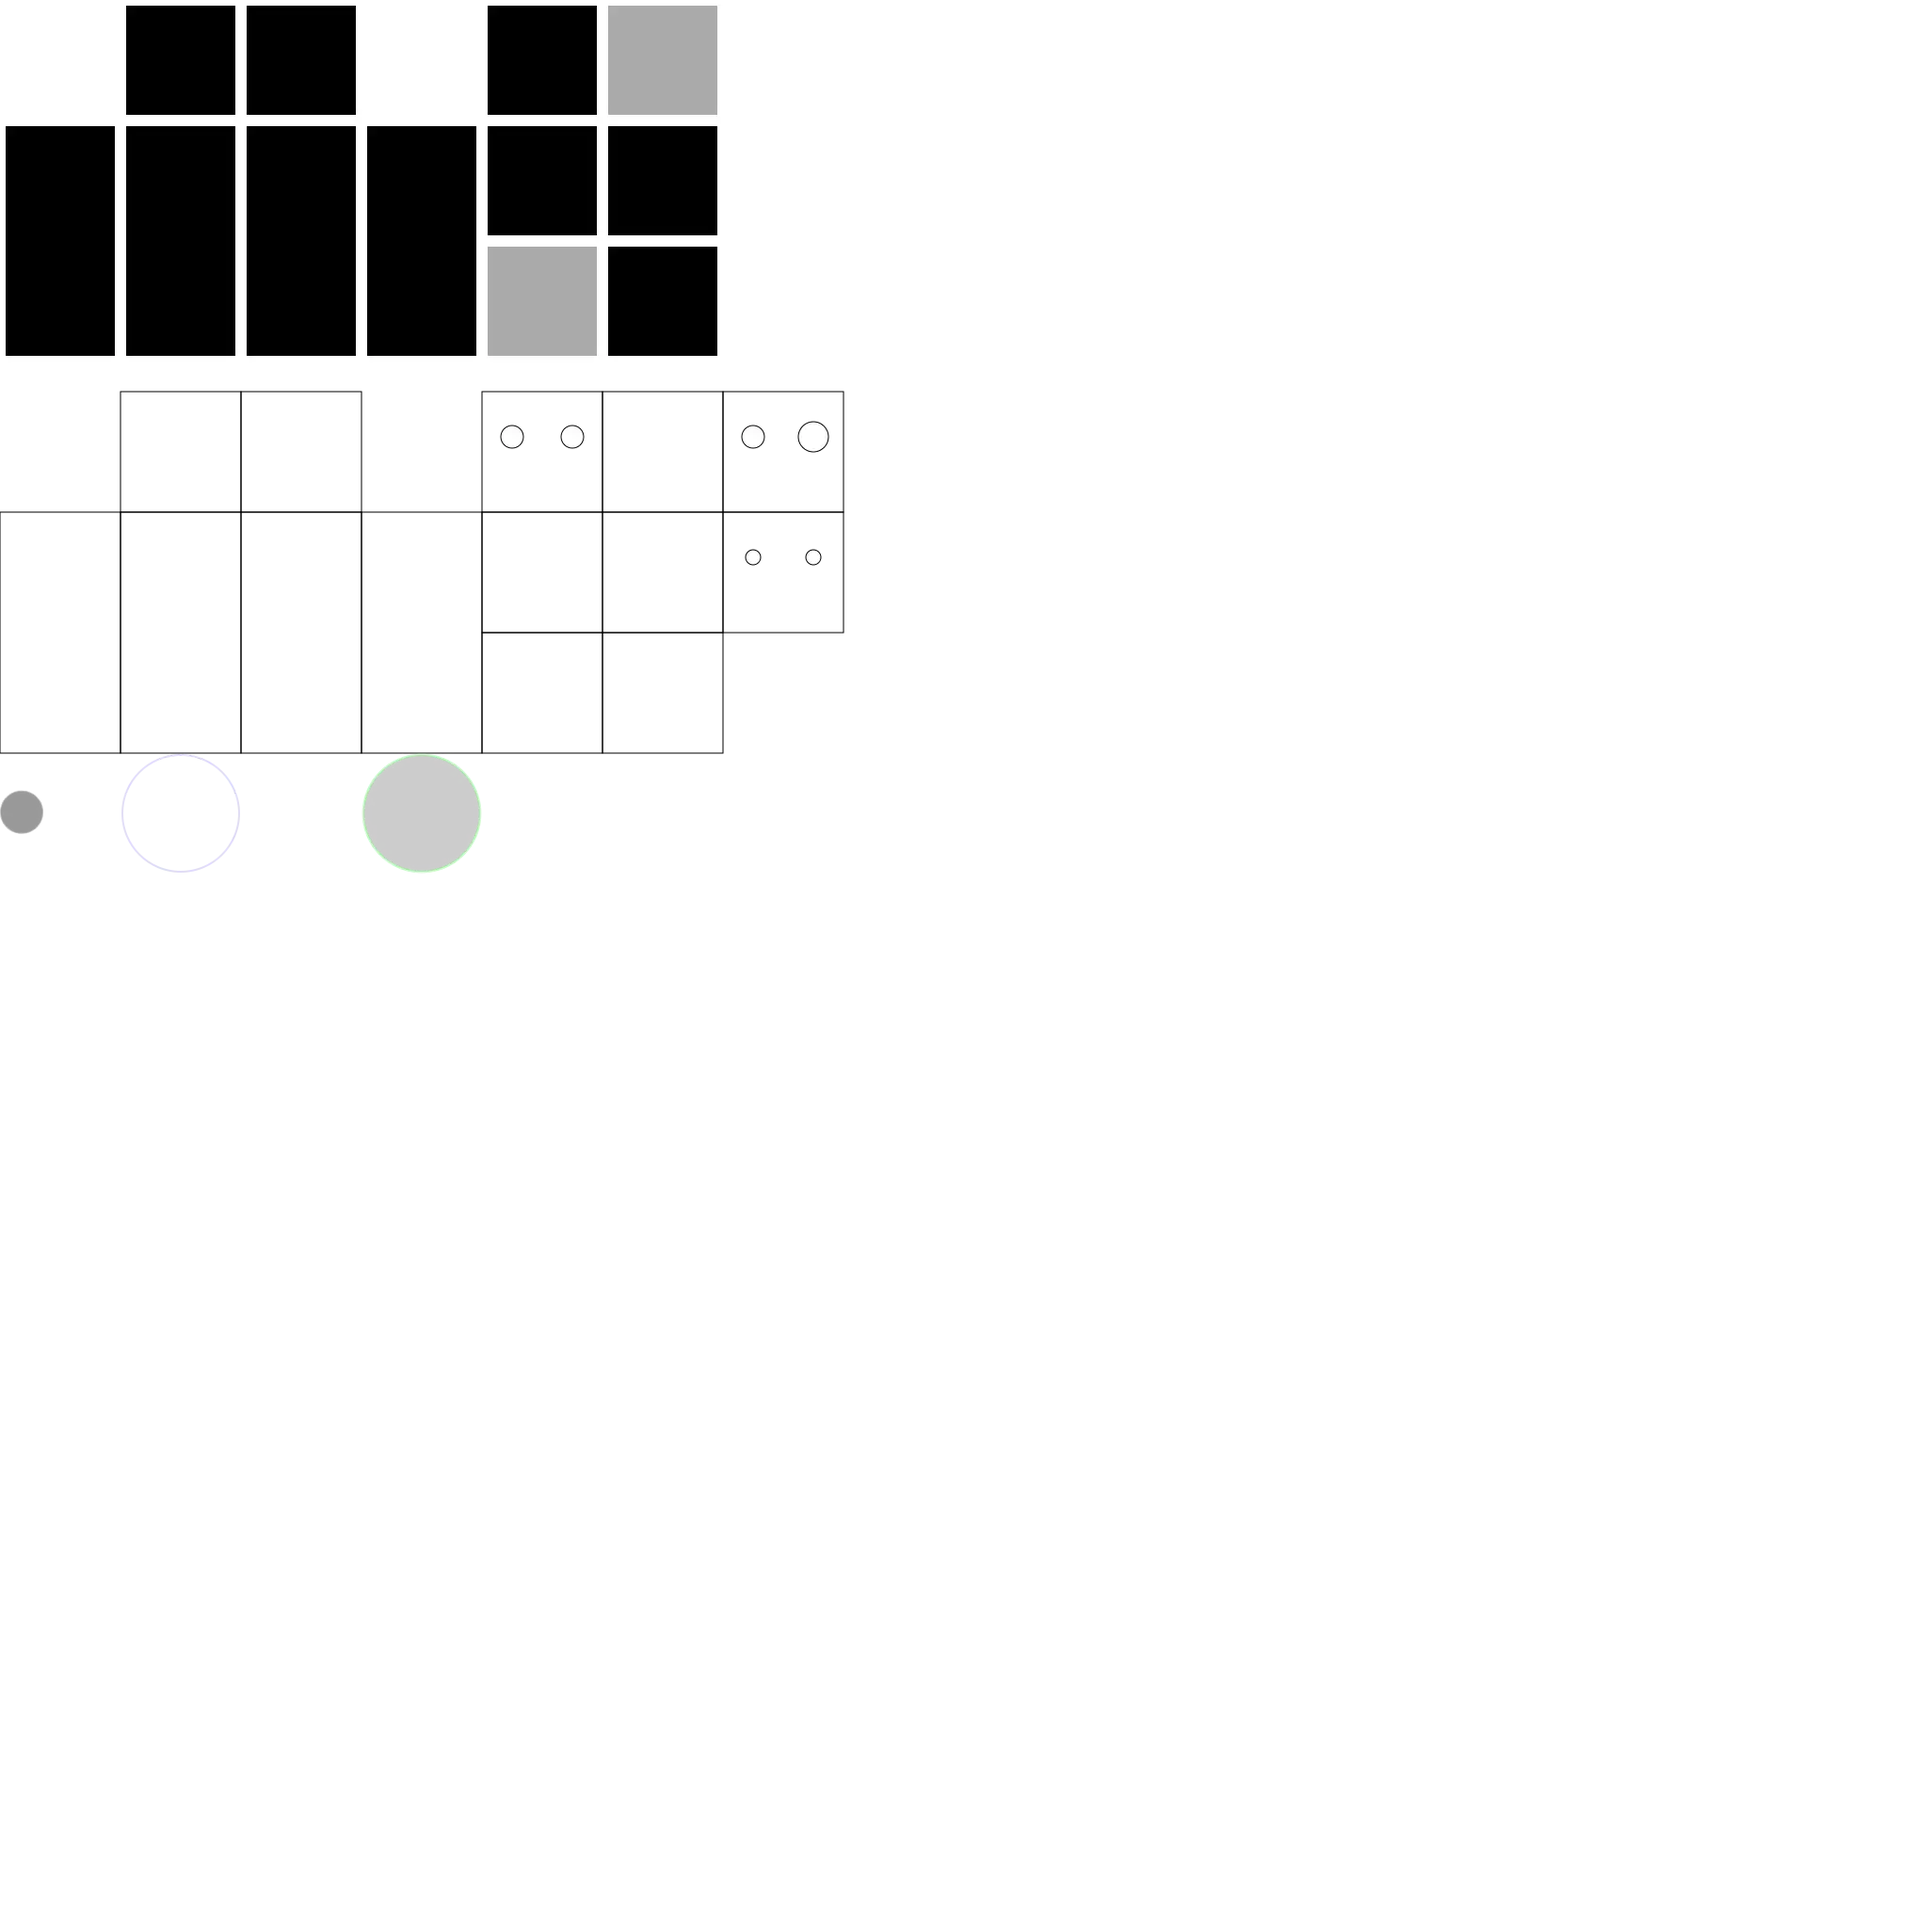
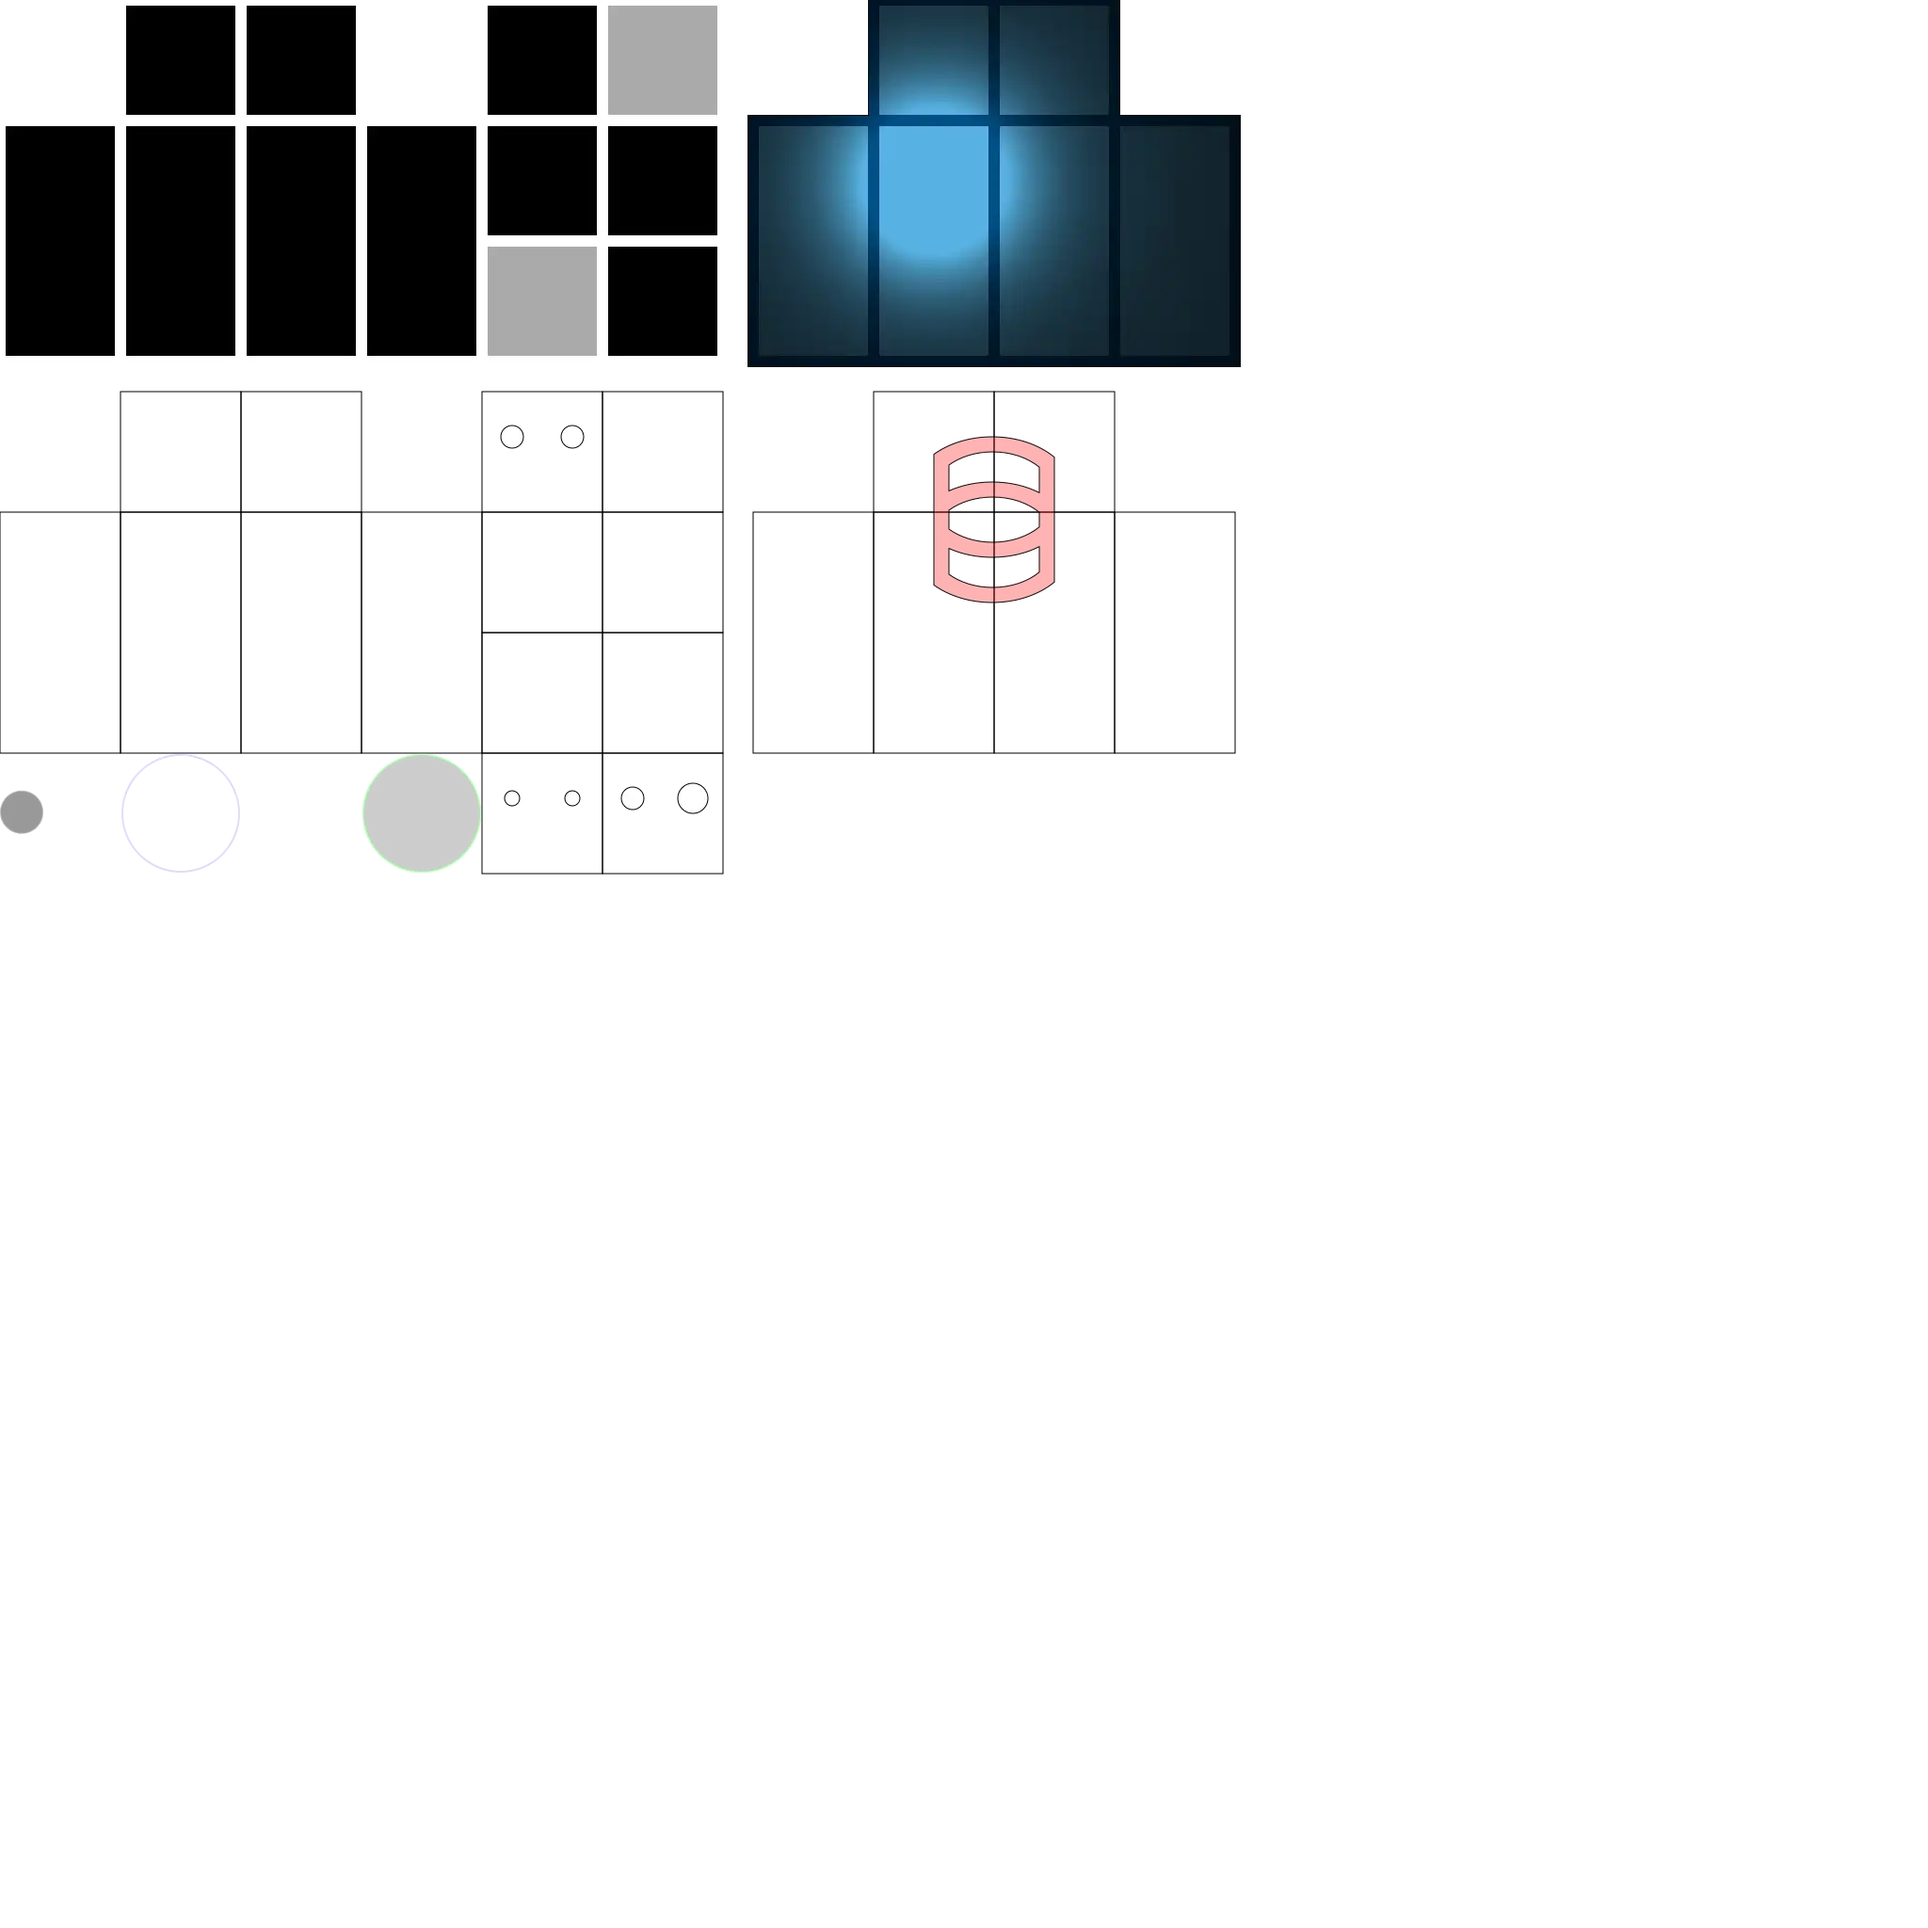
feat: towards better skins

Changed region(s): [[0.375, 0.0, 0.6562, 0.3125]]

diff --git a/docs/TODO.md b/docs/TODO.md
@@ -126,14 +126,15 @@
   - ✅ move hard-coded tint into profile-1
 
 - 🚧 good examples of uv re-mappings in profile-1
-  - 🚧 grid_base-body
+  - ✅ test-body_base-body
+  - ✅ test-body-overlay_base-body-overlay
   - 🚧 grid_base-head
 - 🚧 good examples of tintings in profile-1
 
-- represent label images as 256-layer DataTextureArray
-  - requires bounds on max width/height of label
 - ✅ can show/hide/tint selector
 - ✅ can object-pick new npc
+- represent label images as 256-layer DataTextureArray
+  - requires bounds on max width/height of label
 - can show/hide/tint label
 
 - ✅ ensure we're doing partial texture updates e.g. when npc.applySkin
